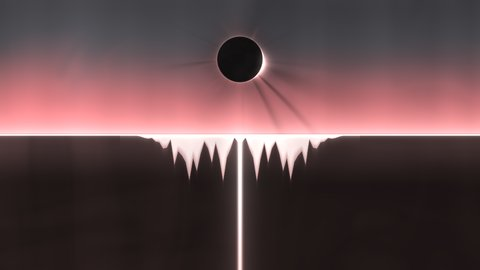
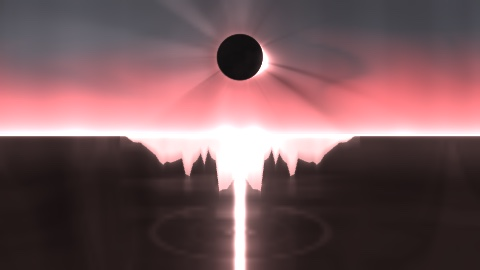
Dark Sun: new thumbnail and description; manifest test checks every shader

diff --git a/tests/test_builtin_manifests.py b/tests/test_builtin_manifests.py
@@ -429,7 +429,7 @@ def test_darksun_manifest():
     assert params["palette"]["default"] == "dusk"
     assert params["backdrop"]["options"] == ["painted", "none"]
     assert params["backdrop"]["default"] == "painted"
-    for f in ("fullscreen.vert", "darksun.frag"):
+    for f in ("fullscreen.vert", "noise.glsl", "backdrop.frag", "darksun.frag"):
         assert (REPOS["builtin"] / "shaders/darksun" / f).is_file(), f
 
 
